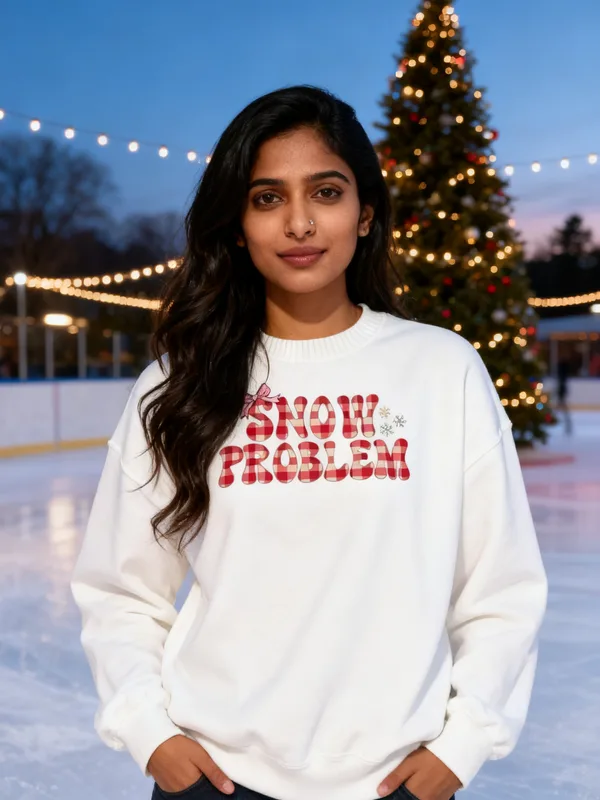
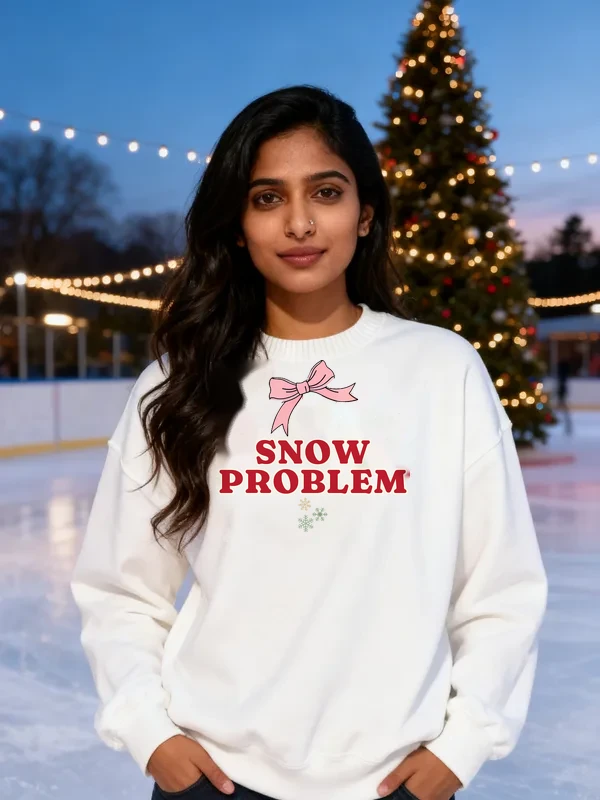
[A] 247/248 Snow Problem REDO: solid-ink print, new mockups + covers; relink queued
Claude-Session: https://claude.ai/code/session_01TsWHYwEQ2LyKMjvyqfq1FM

Changed region(s): [[0.36, 0.4375, 0.69, 0.6562]]

diff --git a/docs/pipeline/248-christmas-snow-problem-crewneck.md b/docs/pipeline/248-christmas-snow-problem-crewneck.md
@@ -22,3 +22,4 @@ handle: womens-christmas-snow-problem-crewneck-sweatshirt
 - 2026-10-17 01:36 UTC builder [A]: Printful sync complete; REVIEW.
 - 2026-10-17 02:14 UTC director: approved from docs/review/248.jpg; ACTIVE + Online Store + Headless + Google; cohesion-audit --handle PASS (0 warn). LIVE.
 - 2026-10-18 02:55 UTC Claude: REDO, lettering only (R5.3.10, Sam 2026-10-18: pattern-filled letters read as clip-art). Keep the art and the line. Re-set the words in a bold real font, solid ink with at most a keyline, via compose-print.py; new Printful file + mockups on the SAME product; stays ACTIVE (never unpublish). No fal needed. Twins share the new file.
+- 2026-10-18 07:20 UTC builder [A]: REDO lettering done (R5.3.10), no fal spend, product stays ACTIVE. Plaid fill removed: SNOW / PROBLEM re-set in Fraunces Black as SOLID red (#b81c2c) with a cream keyline (real font via PIL, the same face as the original letter shapes). The bow and the snowflakes are the originals, cut out of the live print and re-stacked taller (bow on top, words, flakes below) so the print fills the chest: 3163x2887, Printful file 1088698518, FW 1650. Sync 482337267 re-link to the new file is queued behind the other REDOs (check default file = 1088698518 on every variant; until then Printful still has the old file, so the order of publishing vs. fulfillment matters: fulfillment uses the Printful file, the storefront photos are already new). New mockups for all colors + back replace the crewneck media (created before deleting the old ones so the live page never lacked photos), variants re-linked per color. Cover: the new print composited onto the same live photo (R6.9, nothing near hair or hands), old print cleaned.

diff --git a/docs/pipeline/247-christmas-snow-problem.md b/docs/pipeline/247-christmas-snow-problem.md
@@ -25,3 +25,4 @@ handle: womens-christmas-snow-problem-graphic-tee
 - 2026-10-17 01:27 UTC builder [A]: Printful sync complete; REVIEW.
 - 2026-10-17 02:14 UTC director: approved from docs/review/247.jpg; ACTIVE + Online Store + Headless + Google; cohesion-audit --handle PASS (0 warn). LIVE.
 - 2026-10-18 02:55 UTC Claude: REDO, lettering only (R5.3.10, Sam 2026-10-18: pattern-filled letters read as clip-art). Keep the art and the line. Re-set the words in a bold real font, solid ink with at most a keyline, via compose-print.py; new Printful file + mockups on the SAME product; stays ACTIVE (never unpublish). No fal needed. Twins share the new file.
+- 2026-10-18 07:20 UTC builder [A]: REDO lettering done (R5.3.10), no fal spend, product stays ACTIVE. Plaid fill removed: SNOW / PROBLEM re-set in Fraunces Black as SOLID red (#b81c2c) with a cream keyline (real font via PIL, the same face as the original letter shapes). The bow and the snowflakes are the originals, cut out of the live print and re-stacked taller (bow on top, words, flakes below) so the print fills the chest: 3163x2887, Printful file 1088698518, FW 1500. Sync 482336736 re-link to the new file is queued behind the other REDOs (check default file = 1088698518 on every variant; until then Printful still has the old file, so the order of publishing vs. fulfillment matters: fulfillment uses the Printful file, the storefront photos are already new). New mockups for all colors + back replace the tee media (created before deleting the old ones so the live page never lacked photos), variants re-linked per color. Cover: the new print composited onto the same live photo (R6.9, nothing near hair or hands), old print cleaned.
